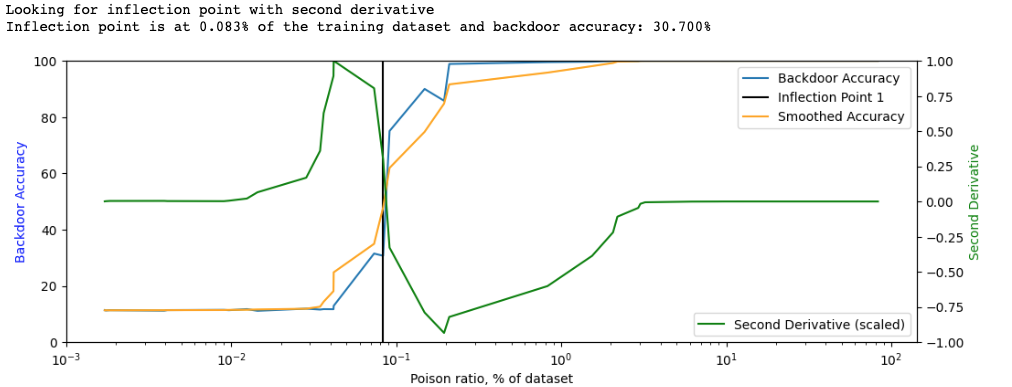
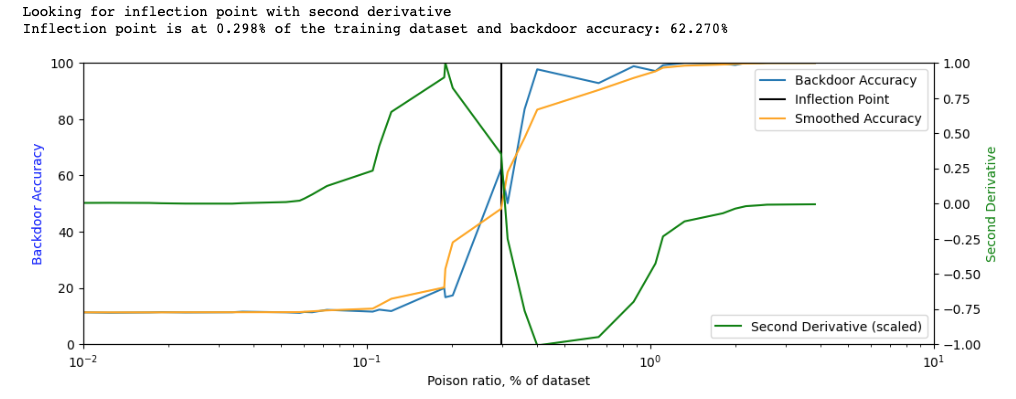
updates

diff --git a/mithridates/utils.py b/mithridates/utils.py
@@ -11,9 +11,9 @@ def get_inflection_point(analysis, simplified=False, plot=False):
     if simplified:
         threshold = 50
         print(f'Using simplified threshold: of {threshold} for backdoor accuracy.')
-        infls = [np.argmax(sorted_data[:, 1] > threshold)]
+        infl = np.argmax(sorted_data[:, 1] > threshold)
         if plot:
-            plot_it(poison_ratios, accuracies, infls=infls)
+            plot_it(poison_ratios, accuracies, infl=infl)
     else:
         from scipy.ndimage import gaussian_filter1d
         print(f'Looking for inflection point with second derivative')
@@ -24,28 +24,34 @@ def get_inflection_point(analysis, simplified=False, plot=False):
 
         # find inflection points
         infls = np.where(np.diff(np.sign(smooth_d2)))[0]
+        infl_clean = list()
+        for i, infl in enumerate(infls, 1):
+            if 15 < accuracies[infl] < 90: # ignore fluctuation outside of range.
+                infl_clean.append(infl)
+        if len(infl_clean) > 1:
+            print(f'Multiple inflection points found: {infl_clean}.')
+        infl = infl_clean[0]
         if plot:
-            plot_it(poison_ratios, accuracies, smooth, smooth_d2, infls)
+            plot_it(poison_ratios, accuracies, smooth, smooth_d2, infl)
 
-    print(f'Inflection point is at {poison_ratios[infls[0]]:2.3f}% of the training dataset '
-          f'and backdoor accuracy: {accuracies[infls[0]]:2.3f}%')
-    return poison_ratios, accuracies, infls
+    print(f'Inflection point is at {poison_ratios[infl]:2.3f}% of the training dataset '
+          f'and backdoor accuracy: {accuracies[infl]:2.3f}%')
+    return poison_ratios, accuracies, infl
 
 
-def plot_it(poison_ratios, accuracies, smooth=None, smooth_d2=None, infls=None):
+def plot_it(poison_ratios, accuracies, smooth=None, smooth_d2=None, infl=None):
     import matplotlib.pyplot as plt
     fig, ax1 = plt.subplots(figsize=(12, 4))
     ax1.plot(poison_ratios, accuracies, label='Backdoor Accuracy')
 
     ax1.set_xscale('log')
     ax1.set_ylim(0, 100)
+    ax1.set_xlim(0.01, 10)
 
     ax1.set_xlabel('Poison ratio, % of dataset')
     ax1.set_ylabel('Backdoor Accuracy', color='b')
-    for i, infl in enumerate(infls, 1):
-        if accuracies[infl] < 90:  # ignore changes above 90% accuracy
-            ax1.axvline(x=poison_ratios[infl], color='k',
-                        label=f'Inflection Point {i}')
+    if infl is not None:
+        ax1.axvline(x=poison_ratios[infl], color='k', label=f'Inflection Point')
     if smooth is not None and smooth_d2 is not None:
         ax2 = ax1.twinx()
         ax1.plot(poison_ratios, smooth, label='Smoothed Accuracy', c='orange')

diff --git a/ray_training.py b/ray_training.py
@@ -1,36 +1,51 @@
 import numpy as np
+import argparse
 
 from ray import tune
+from ray import air
 
 from mnist_example import run_training
 
 
-search_space = {
-    "poison_ratio": tune.loguniform(0.00001, 1),
-}
-
-
 def tune_run(params):
-    fixed_params = {
-        "lr": 1.0,  # tune.sample_from(lambda spec: 10 ** (-10 * np.random.rand())),
-        "batch_size": 64,
-        "test_batch_size": 1000,
-        "epochs": 3,
-        "gamma": 0.7,
-        "no_cuda": False,
-        "no_mps": False,
-        "seed": 1,
-        "print": False
-    }
-    params.update(fixed_params)
+
     accuracy, backdoor_accuracy = run_training(params)
-    tune.report(accuracy=accuracy, backdoor_accuracy=backdoor_accuracy)
+    tune.report(accuracy=accuracy, backdoor_accuracy=backdoor_accuracy,
+                poison_ratio=100*params['poison_ratio'])
 
 
-tuner = tune.Tuner(
-    tune.with_resources(tune_run,
-        resources={"cpu": 2, "gpu": 0.5}),
-    param_space=search_space,
-    tune_config=tune.TuneConfig(num_samples=40),
-)
-results = tuner.fit()
+if __name__ == '__main__':
+
+    parser = argparse.ArgumentParser(description='Ray Tuning')
+    parser.add_argument('--run_name', required=True, type=str)
+
+    parser.add_argument('--build_curve', action='store_true')
+    parser.add_argument('--run_stage1', default=None, type=str)
+    parser.add_argument('--run_stage2', default=None, type=str)
+    parser.add_argument('--run_stage3', default=None, type=str)
+    parser.add_argument('--run_stage4', default=None, type=str)
+    parser.add_argument('--target_ratio', default=None, type=float)
+    args = parser.parse_args()
+
+    if args.build_curve:
+        print("Building curve with default hyperparameters.")
+        params = {
+            "poison_ratio": tune.loguniform(0.00001, 0.05),
+            "lr": 1.0,  # tune.sample_from(lambda spec: 10 ** (-10 * np.random.rand())),
+            "batch_size": 64,
+            "test_batch_size": 1000,
+            "epochs": 1,
+            "gamma": 0.7,
+            "no_cuda": False,
+            "no_mps": False,
+            "seed": 1,
+            "print": False
+        }
+        tuner = tune.Tuner(
+            tune.with_resources(tune_run,
+                resources={"cpu": 2, "gpu": 0.5}),
+            param_space=params,
+            tune_config=tune.TuneConfig(num_samples=40),
+            run_config=air.RunConfig(name=args.run_name)
+        )
+        results = tuner.fit()

diff --git a/README.md b/README.md
@@ -1,11 +1,26 @@
-# Mithridates -- Measure and Boost Robustness to Backdoor Poisoning
+# Mithridates: Measure and Boost Robustness to Backdoor Poisoning
+
+This repo is designed to help engineers to find vulnerabilities to backdoors of 
+machine learning pipelines without any training modification. We try to 
+answer two questions:
+
+1. How robust is your machine learning pipeline to unknown backdoors?
+2. How to modify existing hyperparameters to boost backdoor robustness?
+
+Current functionality:
+* Can find vulnerability to strong backdoors on PyTorch pipelines.
+* Dataset wrapper works on (x, y) dataset tuples. 
 
 *This is work in progress: email 
-me: 
-eugene@cs.cornell.edu and contribute!*
+me
+([eugene@cs.cornell.edu](mailto:eugene@cs.cornell.edu)) and contribute!*
 <p align="center">
 <img src="images/mithridates.jpg"  width="300" height="300">
 </p>
+
+*Photo of Mithridates VI Eupator,
+the ruler of Pontus from 120 to 63 BC. He was rumored to include minuscule
+amounts of poison in his diet to build up immunity to poisoning.* 
 
 ## Background
 
@@ -17,13 +32,9 @@ using a small fraction of inputs.
 However, as backdoor attacks are diverse and defenses are expensive 
 to integrate and maintain, there exists a problem for practical resolution.
 
-In this repo we take a **developer-centric** view of this problem and 
-focus on two questions:
-1. But how robust is your model to backdoor poisoning?
-2. How to boost this robustness without modifying your model training. 
-
-**Main goal**: Provide an easy-to-use tool that does 
-not require  modification of the training pipeline but can help 
+**Main goal**: In this repo we take a **developer-centric** view of this 
+problem and provide an easy-to-use tool that does 
+not require  modification of the training pipeline but can help to
 measure and mitigate backdoor threats of this pipeline.
 
 ## Installation
@@ -63,13 +74,16 @@ There are three steps to measure robustness:
 2. Iterate over poisoning ratio
 3. Build poisoning curve and compute inflection point
  
+We now provide an example for modifying MNIST training to measure robustness.
+You can adapt this code to your use-case **(feel free to reach out or raise an 
+Issue)**
 
-### MNIST Example
+## MNIST Example
 
 Now we can demonstrate on MNIST PyTorch training example 
 ([mnist_example.py](mnist_example.py)):
 
-#### 1. Integrate wrapper: 
+### 1. Integrate wrapper: 
 
 ```python
 
@@ -93,15 +107,39 @@ See [mnist_example.py#L104](mnist_example.py#L104) for sample integration of
 the wrapper into PyTorch MNIST training example. We added `--poison_ratio` 
 to the arguments that can be called in bash
 
-#### 2. Iterate over poisoning ratio
+### 2. Iterate over poisoning ratio
 
-We can use a Bash (slow) or 
-[Ray Tune](https://docs.ray.io/en/latest/tune/index.html) 
-(fast, uses multiple process and GPUs)
-to iterate over training.
+We recommend using [Ray Tune](https://docs.ray.io/en/latest/tune/index.html) 
+(fast, uses multiple process and GPUs) to iterate over training. For 
+pipelines that are ran through shell scripts we also provide bash script below.
 
+#### Ray
 
-Slow: run **Bash** [script.sh](script.sh) `./script.sh`:
+Fast way of running multiple training iterations. We only modify poison 
+ratio and measure backdoor accuracy. Run `python ray_training.py --build_curve 
+--run_name 
+curve_experiment`:
+
+```text
+Number of trials: 40/40 (40 TERMINATED)
++---------------------+----------+--------------------+----------------+
+| Trial name          | accuracy |  backdoor_accuracy |   poison_ratio |
+|---------------------+----------+--------------------+----------------|
+| tune_run_41558_00000|    98.52 |              11.31 |     0.0520072  |
+| tune_run_41558_00001|    98.4  |              19.92 |     0.187919   |
+| tune_run_41558_00002|    98.57 |              11.48 |     0.00602384 |
+| tune_run_41558_00003|    98.27 |              17.33 |     0.201368   |
+| tune_run_41558_00004|    98.7  |              99.15 |     1.11094    |
+| tune_run_41558_00005|    98.08 |              11.33 |     0.0642598  |
+| tune_run_41558_00006|    98.33 |              11.27 |     0.0171205  |
+| tune_run_41558_00007|    98.49 |              11.55 |     0.105115   |
+| tune_run_41558_00008|    98.35 |              11.37 |     0.0189157  |
+| tune_run_41558_00009|    98.48 |              11.11 |     0.0580809  |
+...
+```
+
+If your training uses scripts, add the argument `--poison_ratio`, here is 
+the example **bash** [script.sh](script.sh) `./script.sh`:
 
 ```bash
 set PYTHONPATH="."
@@ -130,38 +168,8 @@ backdoor accuracy):
 0.333 98.54000 95.04000
 0.367 98.53000 86.56000
 0.400 98.28000 92.34000
-0.433 97.59000 98.62000
-0.467 98.49000 91.68000
-0.500 98.36000 96.52000
-0.533 98.46000 97.20000
-0.567 98.21000 95.89000
-0.600 98.45000 97.14000
-0.633 98.39000 97.48000
 ```
 
-Fast: **Ray Tune:** run `python ray_training.py`:
-
-or leverage Ray to iterate
-```text
-Number of trials: 40/40 (40 TERMINATED)
-+----------------------+--------------+----------+----------+-------------------+
-| Trial name           | poison_ratio | time (s) | accuracy | backdoor_accuracy |
-|----------------------+--------------+----------+----------+-------------------|
-| tune_run_70d8f_00000 |  9.02302e-05 |  72.2013 |    98.84 |             11.48 |
-| tune_run_70d8f_00001 |  1.71321e-05 |  72.762  |    98.95 |             11.38 |
-| tune_run_70d8f_00002 |  0.170843    |  73.9944 |    98.81 |            100    |
-| tune_run_70d8f_00003 |  0.000833466 |  73.0966 |    98.76 |             30.7  |
-| tune_run_70d8f_00004 |  0.000911572 |  71.7646 |    98.85 |             75.05 |
-| tune_run_70d8f_00005 |  0.00148639  |  72.3795 |    98.9  |             90    |
-| tune_run_70d8f_00006 |  0.000124546 |  69.3005 |    98.98 |             11.74 |
-| tune_run_70d8f_00007 |  0.000284989 |  68.0602 |    98.99 |             11.9  |
-| tune_run_70d8f_00008 |  0.029272    |  68.2165 |    98.98 |             99.92 |
-| tune_run_70d8f_00009 |  0.0322237   |  69.4554 |    98.98 |            100    |
-| tune_run_70d8f_00010 |  9.69244e-05 |  69.4923 |    98.91 |             11.36 |
-| tune_run_70d8f_00011 |  0.00825765  |  69.4363 |    98.97 |             99.54 |
-| tune_run_70d8f_00012 |  1.83789e-05 |  69.3122 |    99.05 |             11.35 |
-.....
-```
 
 #### 3. Build a curve:
 
@@ -175,7 +183,8 @@ If used Ray you can use Jupyter Notebook and call
 </p>
 
 
-Overall, this is an inexpensive way to measure robustness to backdoors.
+Therefore, this machine learning model is robust to poisoning of 0.2% 
+dataset. However, modifying hyperparameters might further boost robustness.
 
 # Boosting robustness with hyperparameter search
 
